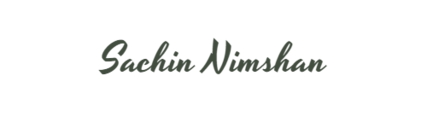
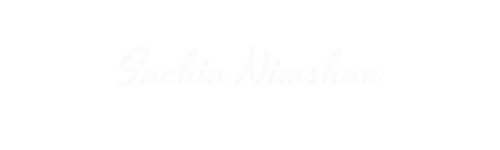
latest

Changed region(s): [[0.2131, 0.3125, 0.7611, 0.5938]]

diff --git a/src/components/page.css b/src/components/page.css
@@ -45,7 +45,6 @@
 
 .section-title{
     text-align: center;
-    font-family: 'Nunito', sans-serif;
     padding: 1rem;
     padding-top: 5.5rem;
     margin-bottom: 2rem;
@@ -60,10 +59,10 @@
 }
 
 .section-title > span{
-    color: #012970;
+    color: #37517E;
     font-size: 26px;
     font-weight: 700;
-    font-family: 'Nunito', sans-serif;
+    font-family: 'Poppins', sans-serif;
     letter-spacing: 1px;
 }
 
@@ -72,8 +71,8 @@
 
 .home-screen{
     display: flex;
-    height: 90vh;
-    background: linear-gradient(60deg, white 30% , #F2F5FC);
+    height: 85vh;
+    background-color: #37517E;
     margin-top: 4rem;
     flex-wrap: wrap;
     justify-content: space-evenly;
@@ -83,22 +82,22 @@
 }
 
 .home-img{
-    width: auto;
+    width: 34rem;
     filter: drop-shadow(2px 2px 2px #4154F1);
 }
 
 
 .home-screen > div > div> h1 {
-    color:#012970;
+    color:white;
     font-size: 40px;
     font-weight: 600;
     letter-spacing: 1px;
 }
 
-.home-screen > div > div > p{
-    font-size: 25px;
+.home-screen > div > div > p, span{
+    font-size: 18px;
     letter-spacing: 1px;
-    color:#5F5F61;
+    color:lightgray;
     text-align: center;
 }  
 
@@ -119,7 +118,7 @@
 }
 
 .social-media-icon{
-    color: #7952B3;
+    color: lightgray;
     font-size: 2.5rem;
     transition: all 0.2s ease-in-out;
     cursor: pointer;
@@ -147,13 +146,13 @@
 /*********************************************************************/
 
 .header-container{
-    height: 4.5rem;
+    height: 5rem;
     display: flex;
     width: 100%;
-    background-color: #FFFFFF;
+    background-color: #37517E;
     align-items: center;
     justify-content: space-between;
-    box-shadow: 0 2px 4px 0 rgba(0, 0, 0, 0.1), 0 3px 10px 0 rgba(0, 0, 0, 0.05);
+    /* box-shadow: 0 2px 4px 0 rgba(0, 0, 0, 0.1), 0 3px 10px 0 rgba(0, 0, 0, 0.05); */
     z-index: 1;
     top: 0;
     position: fixed;
@@ -178,33 +177,34 @@
 }
 
 .menu-item{
-    padding: 1.5rem 1.5rem;
+    padding: 2rem 2rem;
     transition: all ease-in-out 0.3s;
     
 }
 
 .menu-item > a{
     font-size: 16px;
-    color: #022A71;
+    color: white;
     font-family: 'Nunito', sans-serif;
     text-decoration: none;
 }
 
 .menu-item >a:hover{
-    color: #4154F1;
+    color: lightgray;
     transition: all ease-in-out 0.3s;
 }
 
 .btn-contact{
-    background-color: #4154F1;
+    background-color: transparent;
     color: white;
     width: 7rem;
-    border: none;
     padding: 6px 6px;
-    border-radius: 5px;
+    border-radius: 2rem;
     font-family: 'Nunito';
+    border: 2px solid white;
     font-size: 17px;
     transition: all ease-in-out 0.3s;
+    box-shadow: 0 2px 4px 0 rgba(0, 0, 0, 0.1), 0 3px 10px 0 rgba(0, 0, 0, 0.05);
 }
 
 .btn-contact:hover{
@@ -259,7 +259,7 @@
     .menu-icon{
         font-size: 2rem;
         display: block;
-        color: #022A71;
+        color: white;
         margin-right: 1rem;
         cursor: pointer;
     }
@@ -328,22 +328,23 @@
 
 
 .home-btn{
-    background-color: #4154F1;
+    background-color: transparent;
     height: 3rem;
+    border: 2px solid white;
     width: 225px;
     color: white;
-    border-radius: 5px;
+    border-radius: 2rem;
     font-size: 16px;
     display: flex;
     justify-content: center;
     align-items: center;
-    border: none;
     letter-spacing: 1px;
     transition: all 0.2s ease-in-out;
     margin: 1rem 1rem;
 }
 
 .home-btn:hover{
+    opacity: 0.9;
     box-shadow: 0 4px 8px 0 rgba(0, 0, 0, 0.4), 0 6px 20px 0 rgba(0, 0, 0, 0.2);
 }
 
@@ -380,8 +381,7 @@
 
 .pro-icons{
     font-size: 4rem;
-    opacity: 0.95;
-    color: #022A71;
+    color: #4154F1;
     transition: all 0.3s ease-in-out;
     cursor: pointer;
 }
@@ -459,7 +459,6 @@
     border-radius: 5px;
     flex-direction: column;
     transition: all 0.3s ease-in-out;
-    box-shadow: 0 2px 4px 0 rgba(0, 0, 0, 0.1), 0 3px 10px 0 rgba(0, 0, 0, 0.05);
 }
 
 .service-card > h4{

diff --git a/src/App.js b/src/App.js
@@ -14,18 +14,16 @@ import Services from './components/Services';
 import About from './components/About';
 import {FaBars} from 'react-icons/fa';
 import {CgClose} from 'react-icons/cg';
-import {IoMdCloseCircle} from 'react-icons/io';
+
 import Slide from 'react-reveal/Slide';
 import Projects from './components/Projects';
-import {GoThreeBars} from 'react-icons/go';
+
 import {CgArrowUpR} from 'react-icons/cg';
+import Header from './components/Header';
 
 function App() {
   const [showScroll, setShowScroll] = useState(false);
-  const [menu, setmenu] = useState(false);
-
-  const showMenu=()=> setmenu(!menu);
-  const closeMenu=()=> setmenu(false);
+  
 
   
 
@@ -46,41 +44,7 @@ function App() {
 
     return (
     <div className='app'>
-      <div className='header-container'>
-      <Slide left><div><a href='#'><img className='site-logo' src='/Images/signature.png'/></a></div></Slide>
-      <div className='menu-container'>
-          <Slide top>
-          <ul className='menu-item-container'>
-            <div className='menu-item'><a href='#'>Home</a></div>
-            <div className='menu-item'><a href='#about'>About</a></div>
-            <div className='menu-item'><a href='#services'>Services</a></div>
-            <div className='menu-item'><a href='#projects'>Projects</a></div>
-            <div><a href='#contact'><button className='btn-contact'>Contact</button></a></div>
-          </ul></Slide>
-        </div>
-        
-        <div><GoThreeBars onClick={showMenu} className='menu-icon'/></div>
-      <Slide right>
-        <div className={menu ? 'nav-menu active' : 'nav-menu'}>
-        <Slide right>
-        <div className='navbar-container'>
-          <ul className='nav-item-container'>
-            <li className='w-100' style={{listStyleType:'none'}}>
-              <div className='close-menu-container'>
-               <div className='close-menu'><IoMdCloseCircle onClick={closeMenu} className='close-menu-icon'/></div>
-              </div>
-            </li>
-            <li className='nav-item' onClick={closeMenu}><a href='#'>Home</a></li>
-            <li className='nav-item' onClick={closeMenu}><a href='#about'>About</a></li>
-            <li className='nav-item' onClick={closeMenu}><a href='#services'>Services</a></li>
-            <li className='nav-item' onClick={closeMenu}><a href='#projects'>Projects</a></li>
-            <li className='nav-item' onClick={closeMenu}><a href='#contact'>Contact</a></li>
-          </ul>
-        </div>
-      </Slide>
-        </div>
-      </Slide>
-      </div>
+        <section id="header"><Header/></section> 
         <div><CgArrowUpR className="scrollTop" onClick={scrollTop} style={{height: 40, display: showScroll ? 'flex' : 'none'}}/></div>
         <section id="home"><Home/></section>
         <section id="about"><About/></section>

diff --git a/src/components/Header.js b/src/components/Header.js
@@ -1,0 +1,50 @@
+import React, {useState} from 'react';
+import './page.css';
+import {Slide} from 'react-reveal';
+import {GoThreeBars} from 'react-icons/go';
+import {IoMdCloseCircle} from 'react-icons/io';
+
+function Header() {
+  const [menu, setmenu] = useState(false);
+  const showMenu=()=> setmenu(!menu);
+  const closeMenu=()=> setmenu(false);
+
+    return (
+        <div className='header-container'>
+        <div><a href='#'><img className='site-logo' src='/Images/signature.png'/></a></div>
+        <div className='menu-container'>
+            <ul className='menu-item-container'>
+              <div className='menu-item'><a href='#'>Home</a></div>
+              <div className='menu-item'><a href='#about'>About</a></div>
+              <div className='menu-item'><a href='#services'>Services</a></div>
+              <div className='menu-item'><a href='#projects'>Projects</a></div>
+              <div><a href='#contact'><button className='btn-contact'>Contact</button></a></div>
+            </ul>
+          </div>
+          
+          <div><GoThreeBars onClick={showMenu} className='menu-icon'/></div>
+        <Slide right>
+          <div className={menu ? 'nav-menu active' : 'nav-menu'}>
+          <Slide right>
+          <div className='navbar-container'>
+            <ul className='nav-item-container'>
+              <li className='w-100' style={{listStyleType:'none'}}>
+                <div className='close-menu-container'>
+                 <div className='close-menu'><IoMdCloseCircle onClick={closeMenu} className='close-menu-icon'/></div>
+                </div>
+              </li>
+              <li className='nav-item' onClick={closeMenu}><a href='#'>Home</a></li>
+              <li className='nav-item' onClick={closeMenu}><a href='#about'>About</a></li>
+              <li className='nav-item' onClick={closeMenu}><a href='#services'>Services</a></li>
+              <li className='nav-item' onClick={closeMenu}><a href='#projects'>Projects</a></li>
+              <li className='nav-item' onClick={closeMenu}><a href='#contact'>Contact</a></li>
+            </ul>
+          </div>
+        </Slide>
+          </div>
+        </Slide>
+        </div>
+    )
+}
+
+export default Header;

diff --git a/src/components/About.js b/src/components/About.js
@@ -11,10 +11,8 @@ function About() {
     return (
         <div className='about-container'>
          <div className='section-title'>
-           <Fade bottom cascade>
             <h1>About Me</h1>
              <span>What I Do</span>
-             </Fade>
             </div>
           <div className='skill-container container'>
           <Fade bottom><div className='container about-description'><p>I have more than 5+ years' experience building softwares in different programming languages since 2016.

diff --git a/src/components/Services.js b/src/components/Services.js
@@ -9,8 +9,9 @@ function Services() {
         <div className='services-container'>
             <div className='services-over'>
             <div className='section-title'>
-              <Fade bottom cascade><h1>My Services</h1>
-              <span>What I Do</span></Fade>
+                <h1>My Services</h1>
+              <span>What I Do</span>
+              
             </div>
             
             <div className='service-card-main-container'>

diff --git a/src/components/Home.js b/src/components/Home.js
@@ -29,7 +29,7 @@ function Home() {
           </div>
           </Slide>
           
-          <div><Slide right><img className='home-img' src='/Images/banner.png'/></Slide></div>
+          <div><Slide right><img className='home-img' src='/Images/homebg.png'/></Slide></div>
         </div>
     )
 }

diff --git a/src/components/Projects.js b/src/components/Projects.js
@@ -8,10 +8,8 @@ function Projects() {
     return (
     <div className='project-section'>
     <div className='section-title'>
-      <Fade bottom cascade>
       <h1>Projects</h1>
       <span>What I Have Done</span>
-      </Fade>
     </div>
         
     <div className='project-container'>

diff --git a/src/components/Contact.js b/src/components/Contact.js
@@ -21,10 +21,8 @@ function Contact(){
   return (
     <div className='contact-section'>
     <div className='section-title'>
-    <Fade bottom cascade>
       <h1>Contact</h1>
       <span>Leave Me A Message</span>
-      </Fade>
       </div>
 
      <div className='contact-container'>
